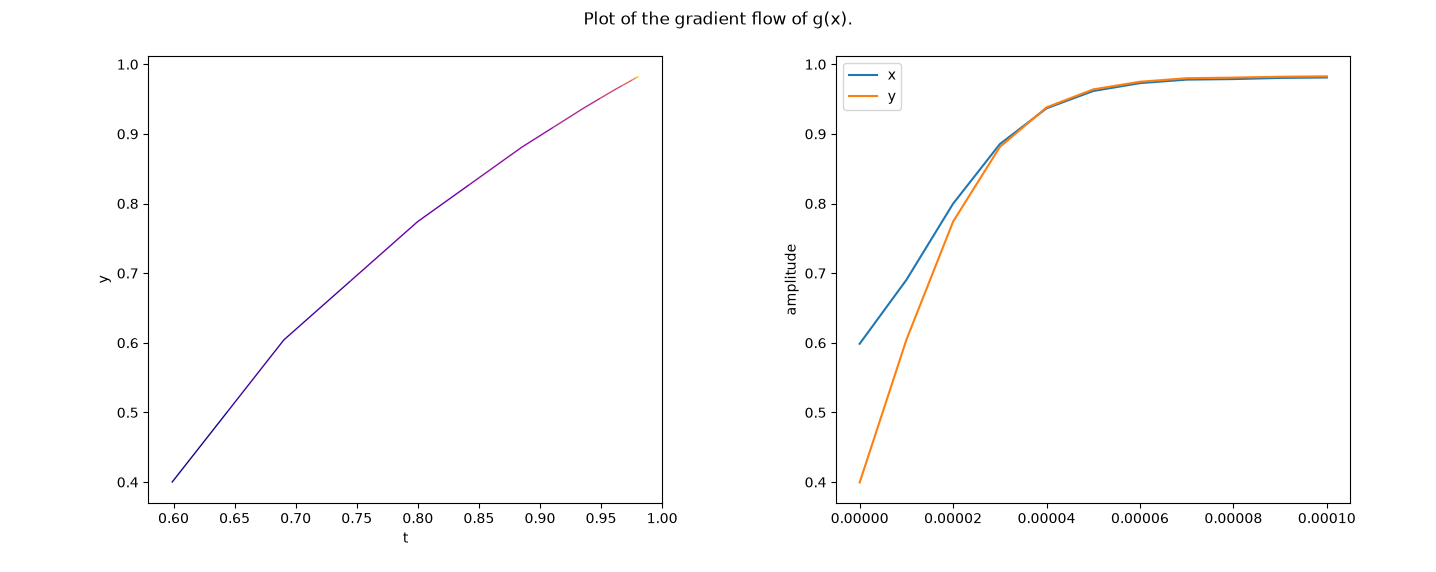
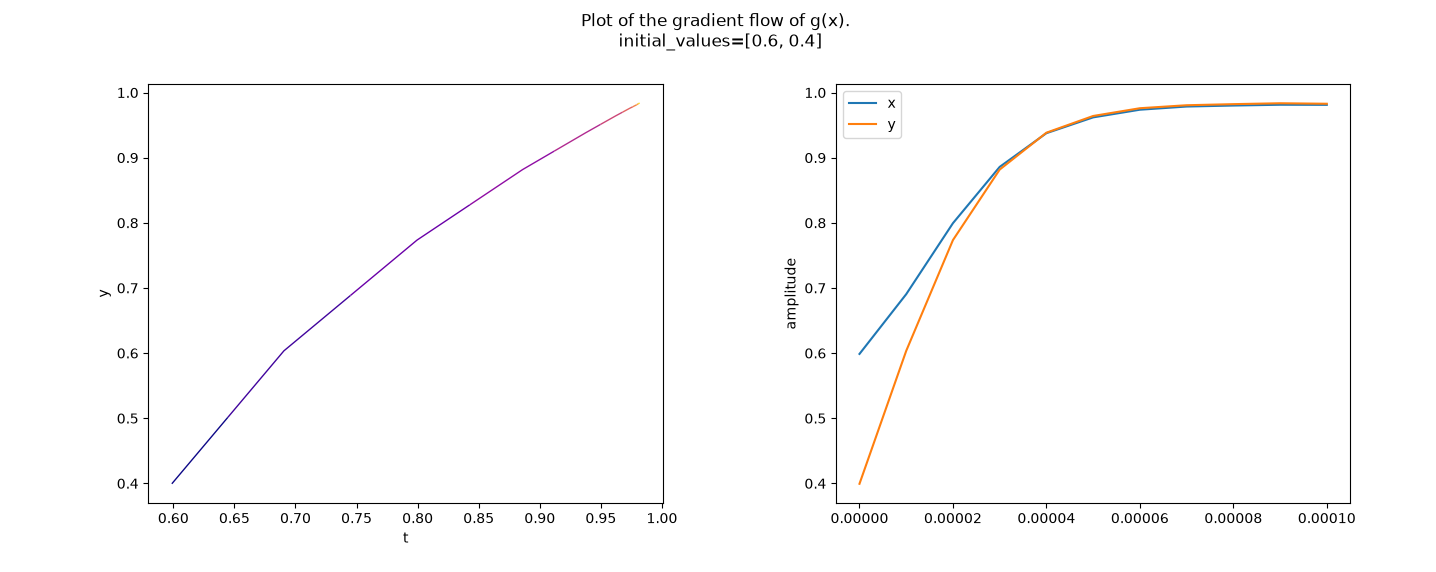
bla

diff --git a/example.py b/example.py
@@ -129,7 +129,8 @@ g = ExpressionQuarticBivariate(1)
 luci = LUCIDAC("tcp://192.168.1.5:5732")
 c = luci.create_circuit()
 p = ParseTree(c)
-c = p.make_circuit(g, [-0.6, -0.4])
+initial_values = [0.6, 0.4]
+c = p.make_circuit(g, initial_values)
 
 sample_rate = 100_000
 run_time = 0.0001
@@ -150,6 +151,6 @@ ax1.set_xlabel("t")
 ax2.set_ylabel("amplitude")
 ax2.legend()
 
-fig.suptitle("Plot of the gradient flow of g(x).")
+fig.suptitle(f"Plot of the gradient flow of g(x). \n initial_values={initial_values}")
 fig.tight_layout()
 plt.show()

diff --git a/analog_optimizer/parser.py b/analog_optimizer/parser.py
@@ -76,7 +76,7 @@ class ParseTree:
 
         gradient = f.gradient()
         for i, (v, _) in enumerate(gradient.items()):
-            self.map_ints.update({v: self.circuit.int(ic=initial_condition[i])})
+            self.map_ints.update({v: self.circuit.int(ic=-initial_condition[i])})
             self.circuit.probe(self.map_ints[v], adc_channel=i)
 
 
